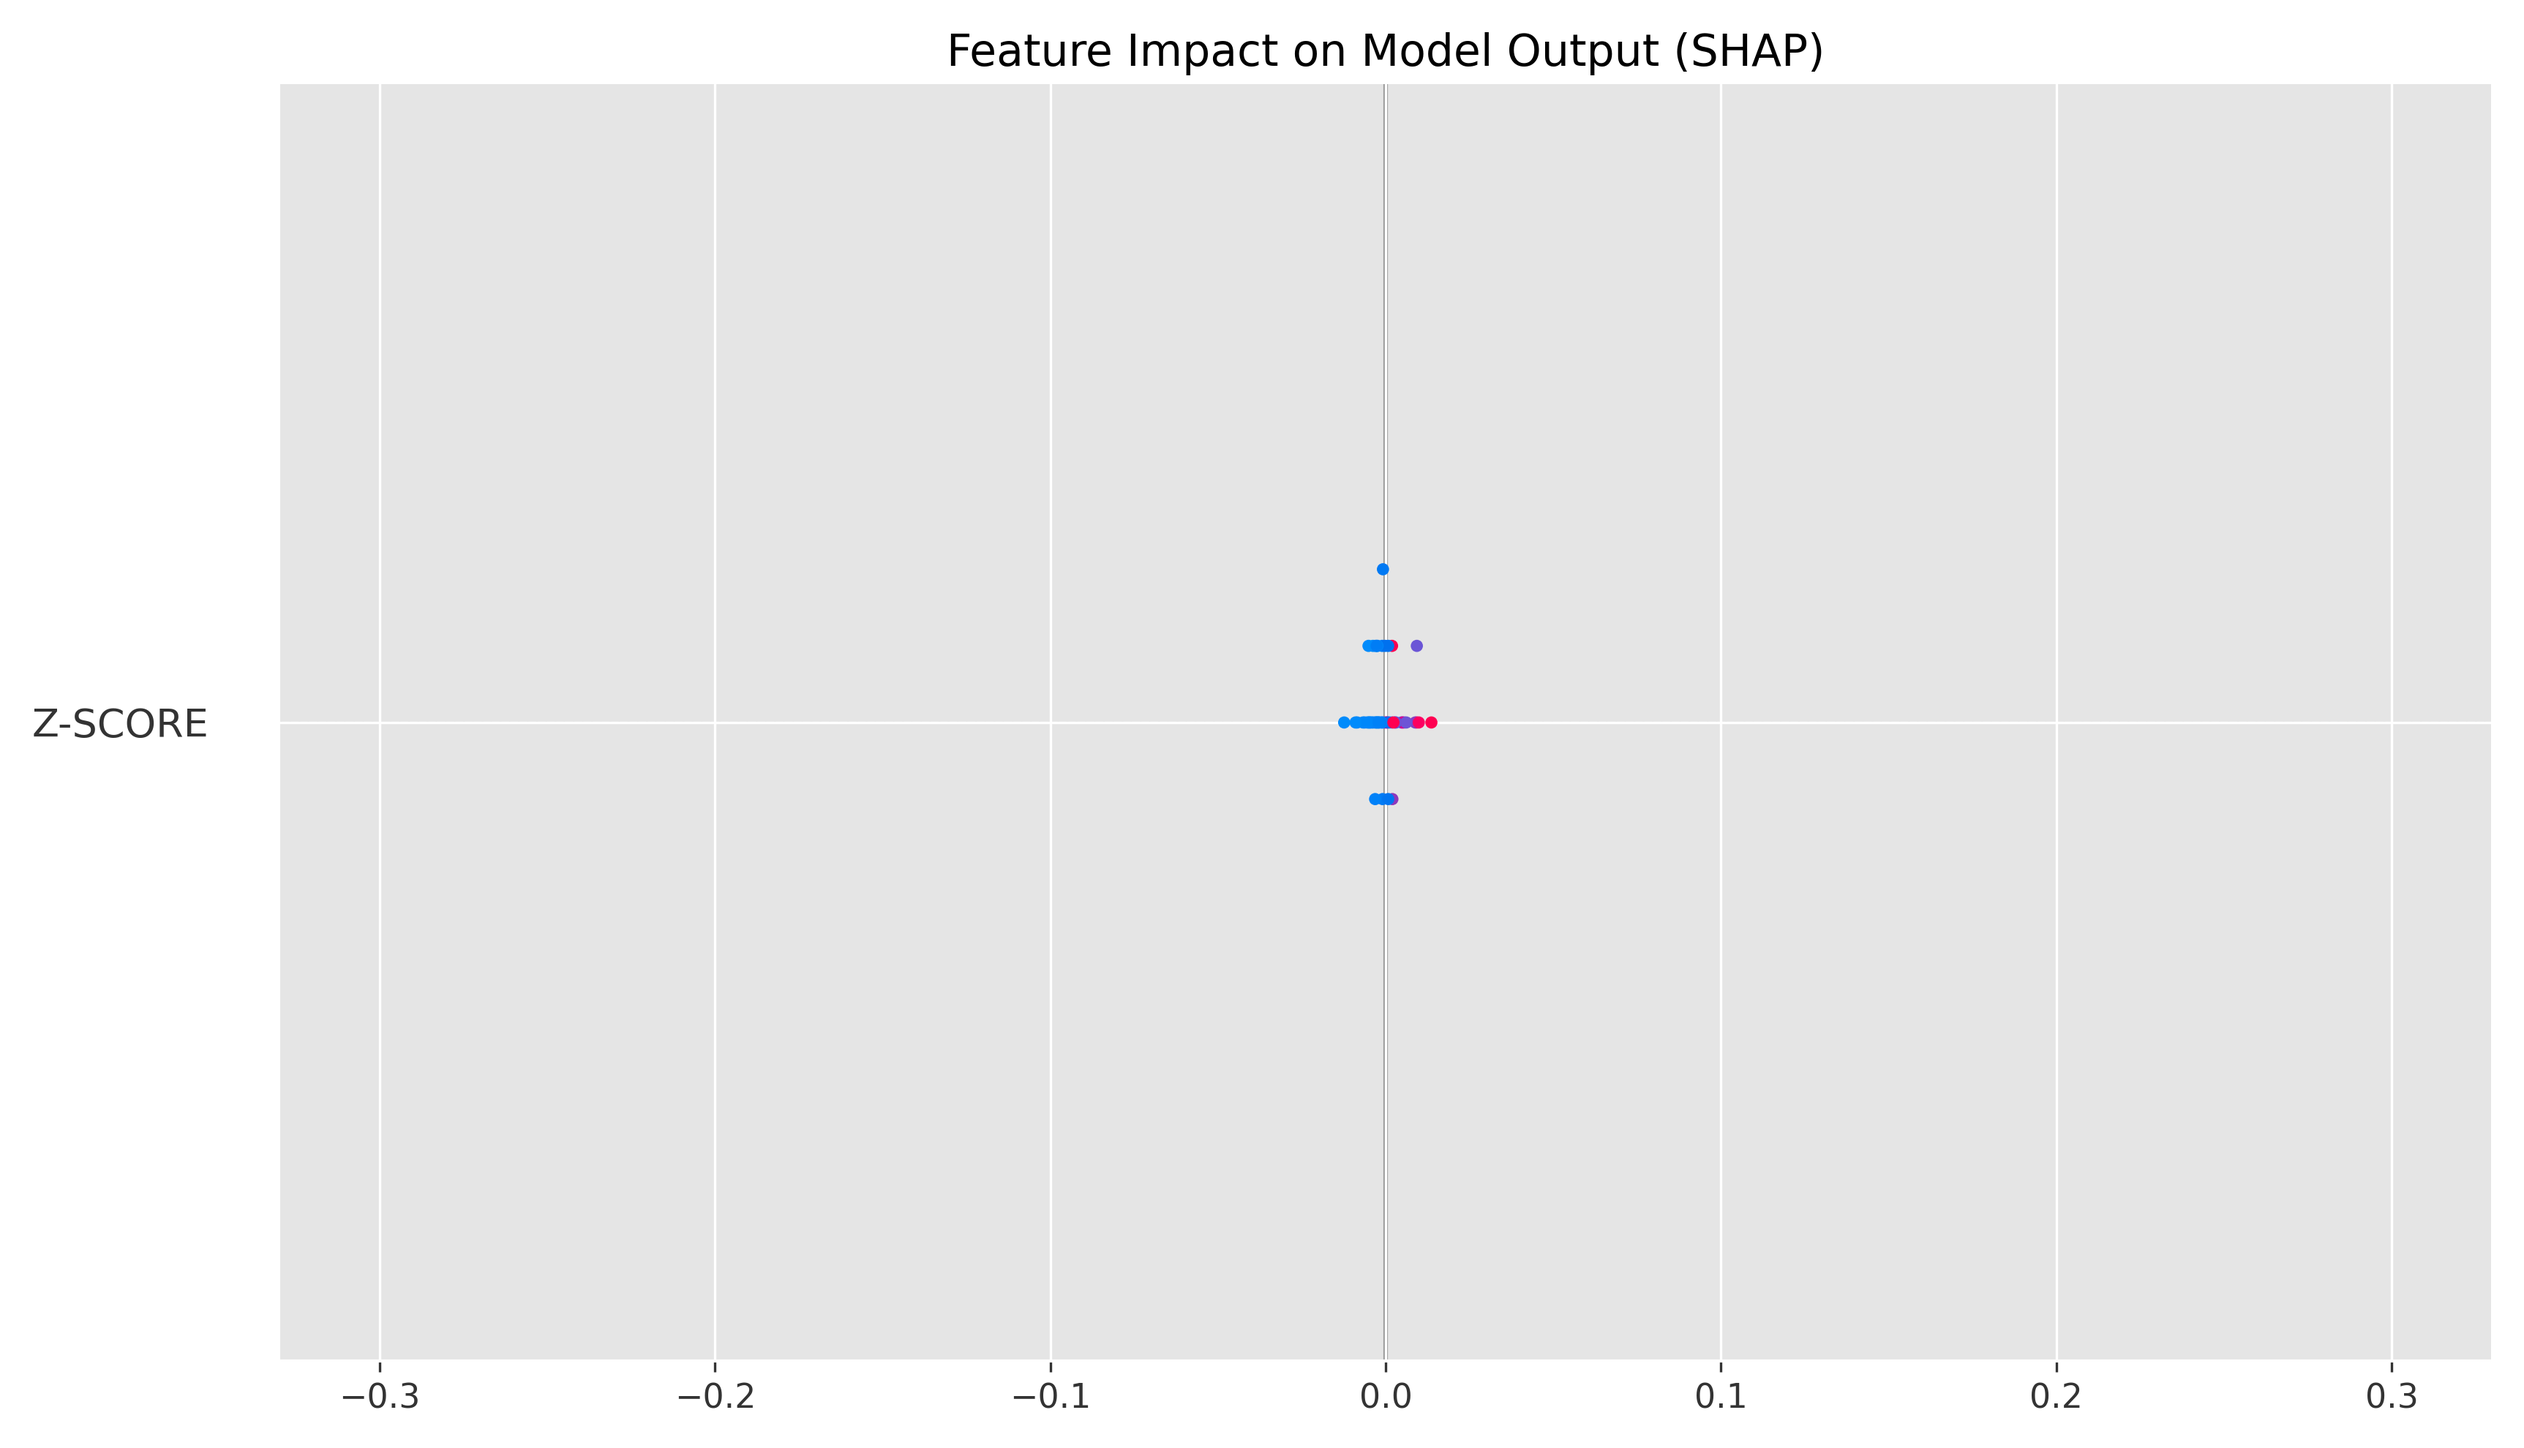
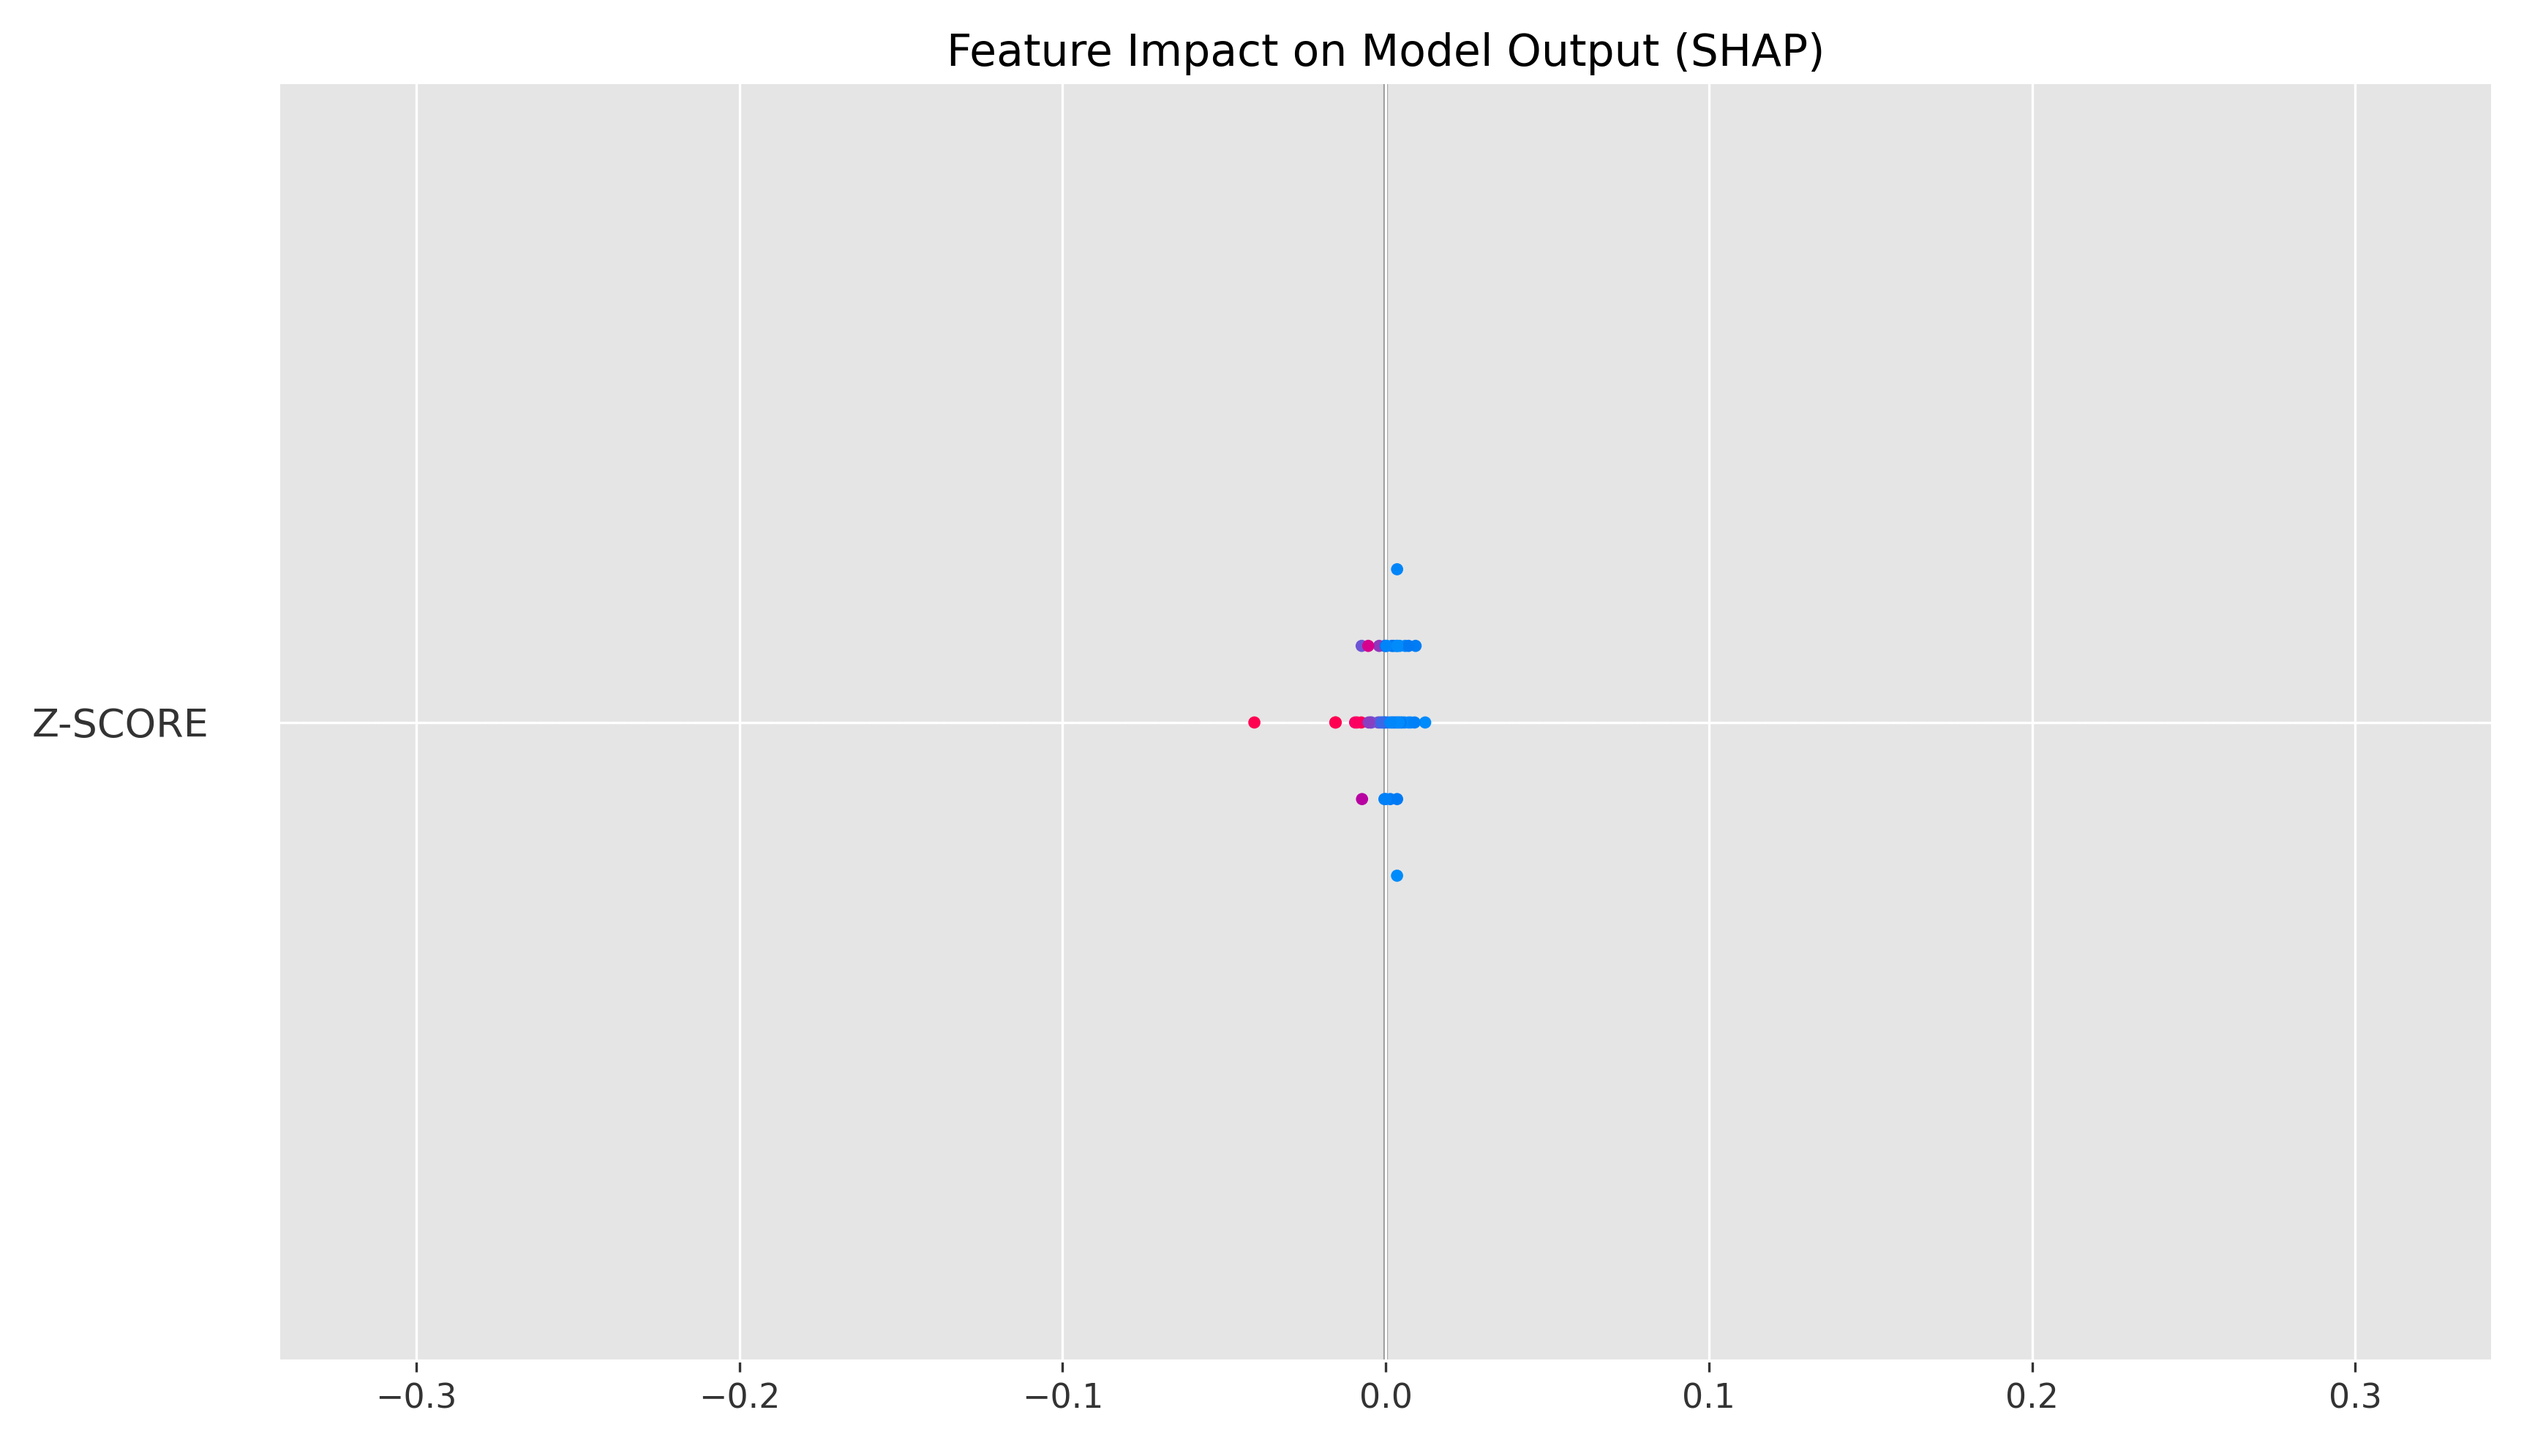
优化模型架构  改进训练策略

diff --git a/MLP.py b/MLP.py
@@ -27,6 +27,9 @@ from tensorflow.keras.models import Sequential
 from tensorflow.keras.layers import Dense, Dropout
 from tensorflow.keras.callbacks import EarlyStopping
 from tensorflow.keras.optimizers import Adam
+from tensorflow.keras.regularizers import l2
+from tensorflow.keras.layers import BatchNormalization
+import tensorflow as tf
 
 # ===============================SHAP解释库===============================
 import shap
@@ -84,6 +87,8 @@ X_test_scaled = scaler.transform(X_test)
 X_train_split, X_val_split, y_train_split, y_val_split = train_test_split(
     X_train_scaled, y_train, test_size=0.2, stratify=y_train, random_state=42
 )
+
+
 # ==========================变量描述性统计===============================
 def generate_variable_stats(df, output_file="MLP/variable_stats.csv"):
     """
@@ -110,31 +115,39 @@ def generate_variable_stats(df, output_file="MLP/variable_stats.csv"):
 print("正在生成变量统计信息...")
 generate_variable_stats(X)
 
+
 # ===============================模型构建===============================
 def build_model(input_dim):
-    """
-    构建MLP模型架构：
-    - 输入层: 60个特征
-    - 隐藏层1: 64个神经元，ReLU激活，30% Dropout
-    - 隐藏层2: 32个神经元，ReLU激活，30% Dropout
-    - 输出层: 1个神经元，Sigmoid激活
-    - 优化器: Adam(lr=0.001)
-    - 损失函数: 二分类交叉熵
-    """
     model = Sequential(
         [
-            Dense(64, activation="relu", input_shape=(input_dim,)),
+            Dense(
+                128,
+                activation="relu",
+                input_shape=(input_dim,),
+                kernel_regularizer=l2(0.01),
+            ),
+            BatchNormalization(),
+            Dropout(0.4),
+            Dense(64, activation="relu", kernel_regularizer=l2(0.005)),
+            BatchNormalization(),
             Dropout(0.3),
-            Dense(32, activation="relu"),
-            Dropout(0.3),
+            Dense(32, activation="relu", kernel_regularizer=l2(0.001)),
+            BatchNormalization(),
+            Dropout(0.2),
             Dense(1, activation="sigmoid"),
         ]
     )
 
+    optimizer = Adam(learning_rate=0.0005)
     model.compile(
-        optimizer=Adam(learning_rate=0.001),
+        optimizer=optimizer,
         loss="binary_crossentropy",
-        metrics=["accuracy", "auc"],
+        metrics=[
+            "accuracy",
+            "auc",
+            tf.keras.metrics.Precision(name="precision"),
+            tf.keras.metrics.Recall(name="recall"),
+        ],
     )
     return model
 
@@ -150,7 +163,11 @@ class_weights_dict = {0: class_weights[0], 1: class_weights[1]}
 print(f"类别权重: {class_weights_dict}")
 
 # 早停法防止过拟合
-early_stop = EarlyStopping(monitor="val_loss", patience=10, restore_best_weights=True)
+# 改进的早停策略
+early_stop = EarlyStopping(
+    monitor="val_auc", patience=15, mode="max", restore_best_weights=True, verbose=1
+)
+
 
 print("开始训练模型...")
 history = model.fit(
